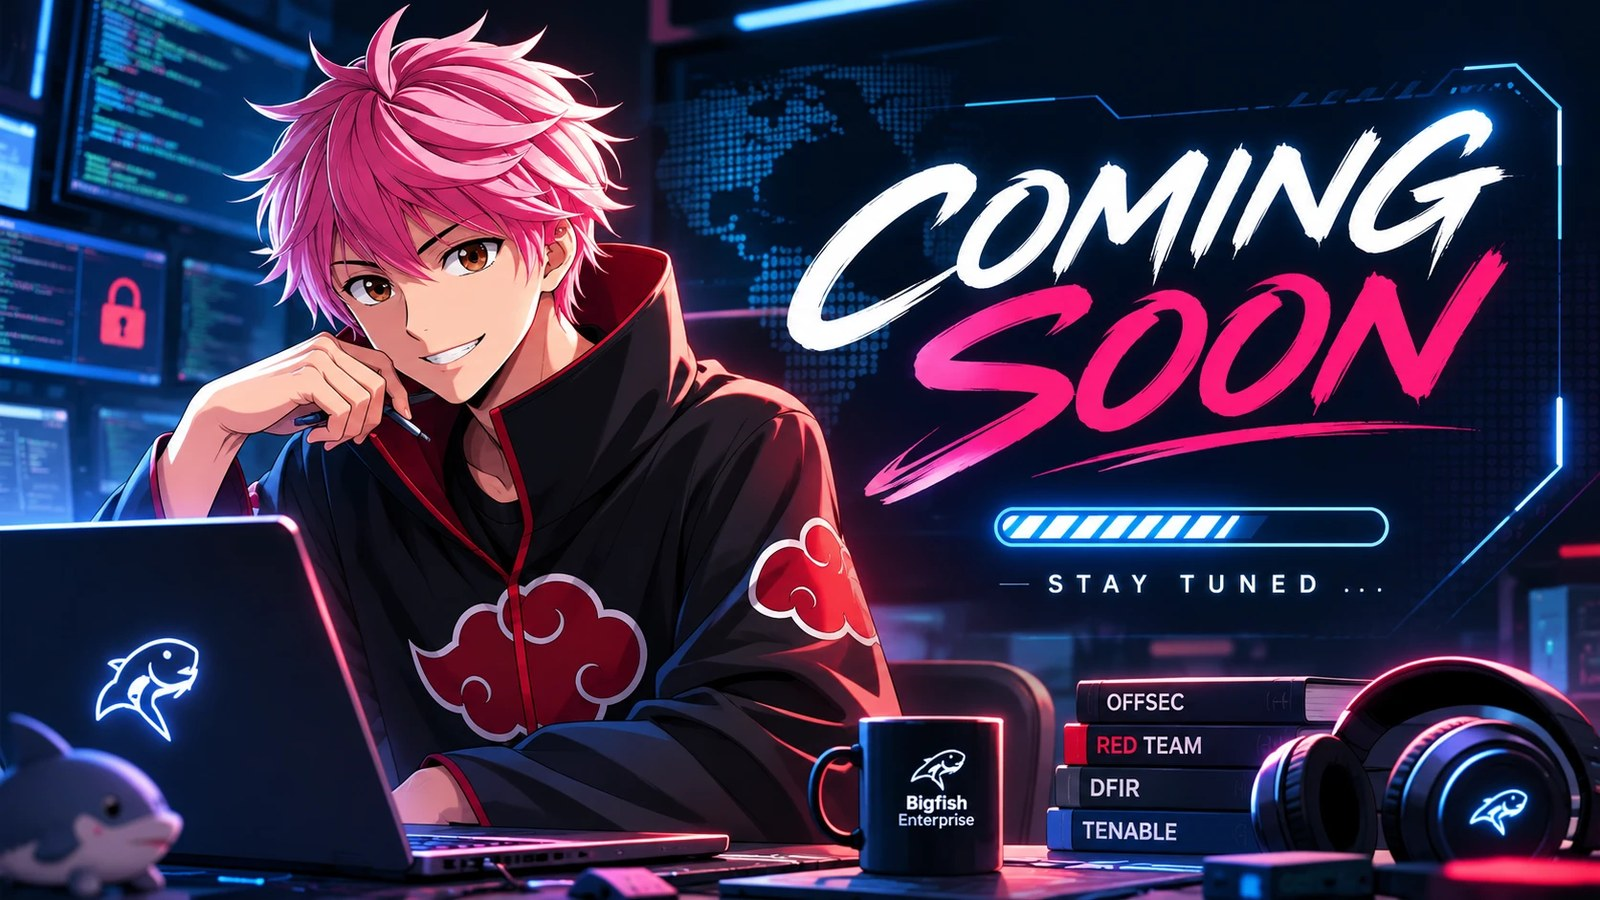
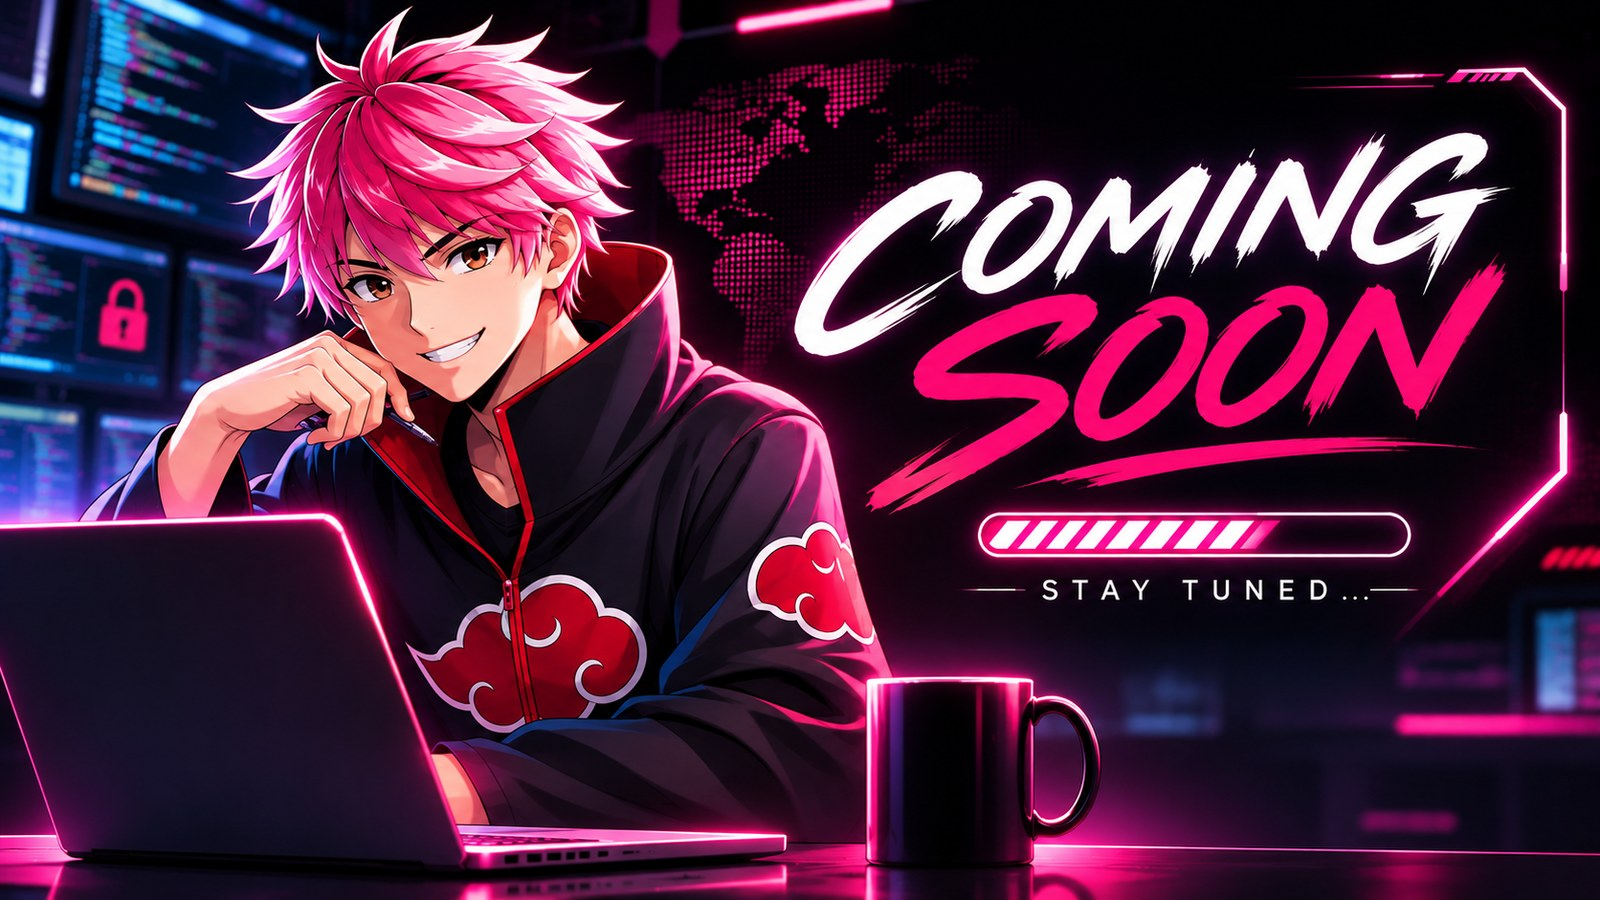
Swap Trials coming-soon hero to cleaner neon-pink version
New illustration keeps the pink-haired coder in the Akatsuki-cloud
hoodie but drops the book-stack and BigFish mug — pure COMING SOON /
STAY TUNED focus with heavier neon magenta glow and the HUD worldmap
backdrop. Alt text updated to match.

diff --git a/trials.html b/trials.html
@@ -225,7 +225,7 @@
     <!-- Coming Soon forge panel -->
     <div class="forge-panel fade-up">
       <div class="forge-eyebrow">The Forge Is Still Burning</div>
-      <img class="forge-hero" src="pic/trials-coming-soon.jpg" alt="Coming Soon · Stay Tuned - anime illustration of Sabastiaz coding at a BigFish Enterprise workstation, OffSec / Red Team / DFIR / Tenable books stacked beside the laptop" loading="lazy">
+      <img class="forge-hero" src="pic/trials-coming-soon.jpg" alt="Coming Soon · Stay Tuned - neon cyberpunk anime illustration, pink-haired coder in an Akatsuki-cloud hoodie at a glowing laptop, HUD worldmap backdrop" loading="lazy">
       <p class="forge-desc">
         Writeups, blueprints, and post-mortems of the Capture-the-Flag challenges, lab dungeons, and training puzzles
         I've authored - what the players saw, what they didn't, and the reasoning behind the twist in each one.
